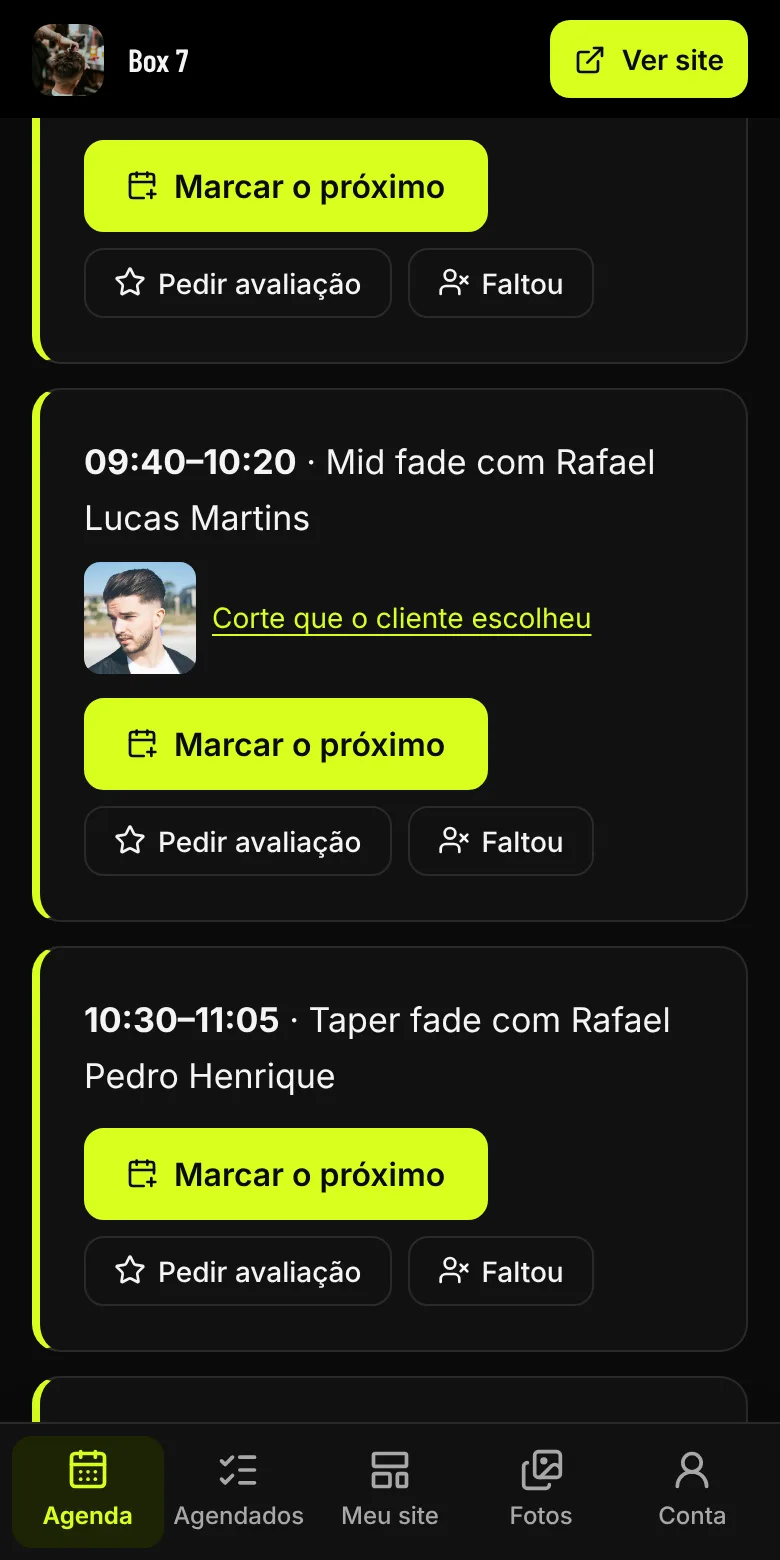
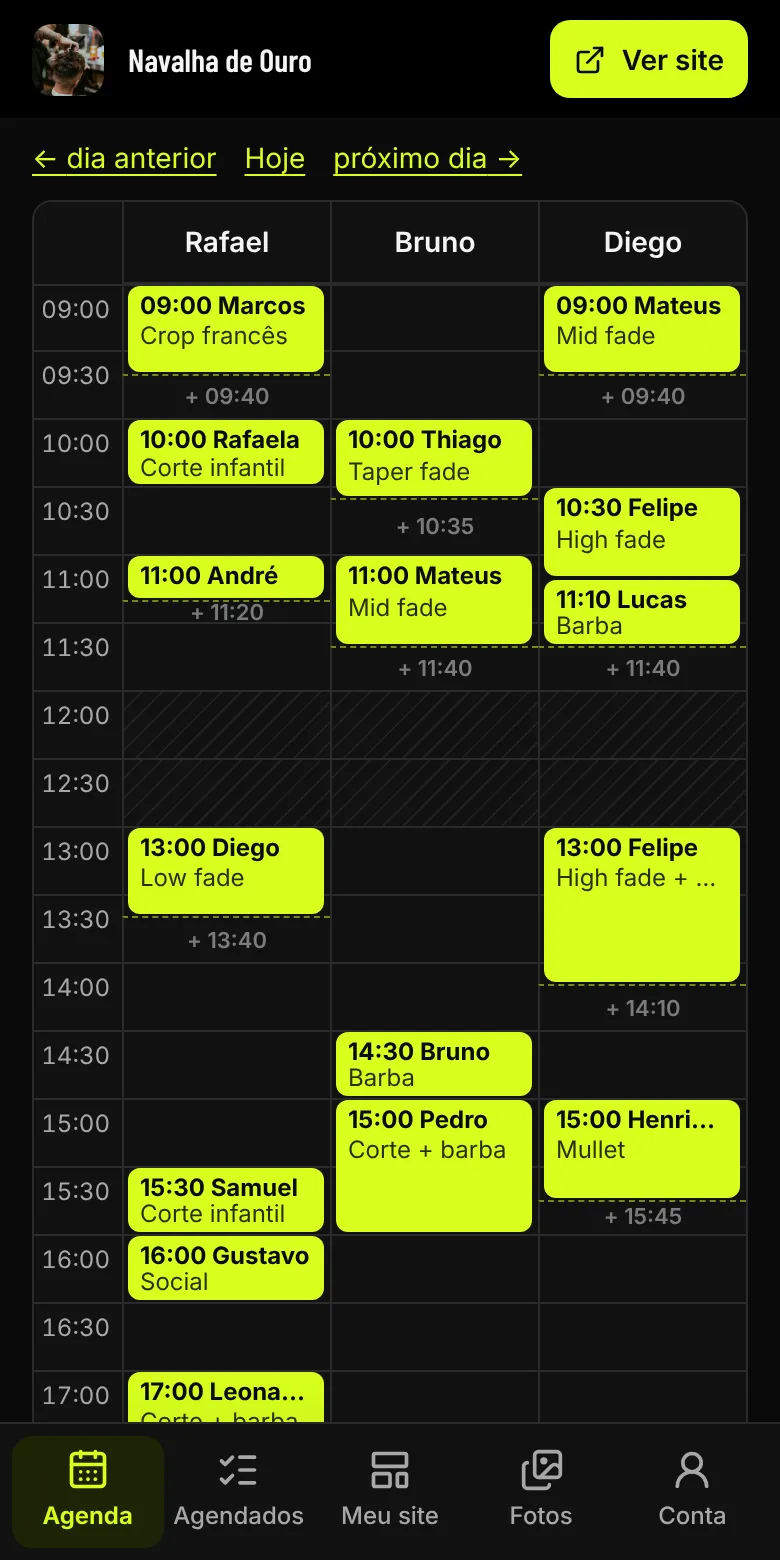
Leads: telas novas do sistema no "Como funciona por dentro"
Refeitas no app de teste (Potência, 3 barbeiros): escolher o barbeiro com
foto, filtros de horário e primeiro livre, agenda do dia por barbeiro,
"Quem vai usar agora?", semana de um barbeiro, agendados e o resto do
painel. Vídeo de venda regravado com as telas novas.

Claude-Session: https://claude.ai/code/session_01MN9zoEGv1FFz94Fua4B64o

diff --git a/apps/site/app/(cursos)/page.tsx b/apps/site/app/(cursos)/page.tsx
@@ -35,14 +35,15 @@ const NO_SITE = [
 
 /** Telas reais do sistema (tiradas de um site de teste em public/funcionalidades/), na ordem do uso. */
 const TELAS = [
-  { arquivo: "agendar-grupos", titulo: "O cliente escolhe por grupo", texto: "Barba, cabelo, sobrancelha, pigmentação, platinado: cada grupo com foto e preço a partir de.", alt: "Tela com os grupos de serviço da barbearia" },
+  { arquivo: "agendar-grupos", titulo: "Escolhe o barbeiro e o serviço", texto: "Com quem ele quer, com foto de cada barbeiro, e os grupos de serviço com o preço a partir de.", alt: "Tela com os grupos de serviço da barbearia" },
   { arquivo: "agendar-cabelo", titulo: "Cada corte com foto e preço", texto: "Ele abre o grupo, vê os cortes da sua barbearia e toca no que quer.", alt: "Tela com os cortes do grupo Cabelo" },
   { arquivo: "agendar-pedido", titulo: "Soma tudo e mostra o total", texto: "Corte, barba e sobrancelha juntos, com o tempo e o valor certos antes de marcar.", alt: "Tela com o resumo do que vai ser feito e o total" },
-  { arquivo: "agendar-horario", titulo: "Só horário livre de verdade", texto: "Ele vê os dias e os horários que sobram e marca na hora, sem te chamar.", alt: "Tela de escolher o dia e o horário" },
+  { arquivo: "agendar-horario", titulo: "Só horário livre de verdade", texto: "Filtra por barbeiro e por manhã, tarde ou noite, e já vê o primeiro horário livre. Marca na hora, sem te chamar.", alt: "Tela de escolher o dia e o horário" },
   { arquivo: "agendado", titulo: "Lembrete no celular dele", texto: "Põe na agenda do celular e, se precisar, troca ou cancela pelo link.", alt: "Tela de horário marcado com o botão de adicionar à agenda" },
-  { arquivo: "painel-semana", titulo: "A semana inteira numa tabela", texto: "Horários de um lado, dias do outro. Cada cliente no lugar e no tamanho certos, e o que já passou fica apagado.", alt: "Agenda da semana em tabela, com os horários marcados de cada dia" },
+  { arquivo: "painel-agenda", titulo: "O dia de cada barbeiro", texto: "Um barbeiro em cada coluna, cada cliente no horário certo. Tocou num horário vazio, já marca quem chegou.", alt: "Agenda do dia com uma coluna por barbeiro" },
+  { arquivo: "painel-acesso", titulo: "Cada barbeiro na agenda dele", texto: "Uma senha só. Na entrada, escolhe quem vai usar: o dono vê tudo, cada barbeiro vê só os clientes dele.", alt: "Tela de escolher entre o dono e cada barbeiro" },
+  { arquivo: "painel-semana", titulo: "A semana inteira numa tabela", texto: "Horários de um lado, dias do outro, um barbeiro por vez. Cada cliente no lugar e no tamanho certos.", alt: "Agenda da semana em tabela, com os horários marcados de cada dia" },
   { arquivo: "painel-agendados", titulo: "Confirma cada cliente no WhatsApp", texto: "A lista de quem vem nos próximos dias. Um toque abre o seu WhatsApp com a mensagem pronta pro cliente.", alt: "Lista de agendados com o botão verde Confirmar" },
-  { arquivo: "painel-agenda", titulo: "Sua agenda do dia", texto: "Quem vem, o serviço e a foto do corte que ele escolheu. O painel fica com as cores do seu estilo.", alt: "Painel com os horários do dia" },
   { arquivo: "painel-calendario", titulo: "No calendário do seu celular", texto: "Os horários aparecem no iPhone ou no Google, com lembrete antes de cada cliente.", alt: "Tela de ligar a agenda no calendário do celular" },
   { arquivo: "painel-fotos", titulo: "Suas fotos, por tipo de corte", texto: "Degradê, navalhado, barba, antes e depois: você troca pelo celular.", alt: "Painel de fotos do site" },
   { arquivo: "painel-servicos", titulo: "Serviços, tempos e preços", texto: "Uma linha por serviço, com o tempo e o preço. Toca, muda e salva: mudou no site na hora.", alt: "Painel com os serviços e preços" },

diff --git a/CLAUDE.md b/CLAUDE.md
@@ -49,7 +49,7 @@ login de aluno. Tudo em TypeScript, monorepo com npm workspaces.
 - Sites de exemplo (`lib/exemplos.ts`): um por estilo, criados sozinhos quando o app sobe sem nenhum (`instrumentation.ts`; uma criação por vez via `globalThis`) ou pelo botão em `/painel/assinaturas` (`criarSitesDeExemplo`: demonstração sem dono nem login, 10 anos no ar, fotos de `data/demo-fotos` processadas uma vez); slugs em `configuracao("sites_exemplo")`; o mesmo botão põe nos exemplos as fotos novas do banco (`configuracao("fotos_exemplo")` guarda as já postas). Banco de fotos `data/demo-fotos` (35: Unsplash + CC0 do StockSnap, categorias `sobrancelha` e `equipe` inclusas; o botão dos exemplos põe os retratos de `equipe` nos profissionais sem foto): só foto que dispensa crédito (CC0/domínio público), via `apps/site/scripts/fotos-demo.mjs buscar|baixar`; aviso próprio no layout de `/b/<slug>` com "Quero um site assim"; os carrosséis de estilos (home e `/barbeiros`) abrem o exemplo no ar quando existe.
 - Divulgação (`/painel/divulgacao`): post pronto de cada matéria e curso pro grupo (copiar ou abrir no WhatsApp), link com `?origem=grupo-<slug>`; contagem de visitas e cadastros por origem (`origens` no banco de leads: só dia/origem/total, nada de IP ou cookie; `ContarOrigem` no layout conta uma vez por aba via sessionStorage → `/api/origem`; `CampoOrigem` leva a origem pro `/app/cadastro`). Outras origens: `cartao`, `convite` (mensagem "Site + grupo" do painel, `mensagemSiteEGrupo`, só depois que o lead responde), `presente`, `demonstracao`, `direto`. Funil de venda (`funil` no banco de leads, por dia, uma vez por aba via `Medir` em `componentes/ContarOrigem.tsx`, toques em `[data-evento]`): abriu → estilos → exemplo → quero → whatsapp → cadastro_inicio → cadastro, com a passagem de um passo pro outro em `/painel/divulgacao`. Link por lead `?l=<codigo>` (`codigoDoLead`, 7 letras, não o nome): as mensagens do painel levam e o cartão do lead mostra os passos (`lead_eventos`, `eventosDoLead`); citado na `/privacidade`.
 - Cursos e Revista abertos, sem cadastro. Lição: `revalidate` 600 e `PropagandaSaas` no fim (nunca em curso CC BY-NC). Endereços do login antigo (`/entrar`, `/e/<token>`, `/minha-area`, `/cadastro`, `/confirmar`, `/esqueci`) redirecionam pra `/` (`next.config.ts`).
-- `apps/site` (cursos) — Página inicial = página de venda, na ordem em que o barbeiro pergunta (`app/(cursos)/page.tsx`, `force-dynamic`, classes `.vendas-*` no `imperial.css`): topo "Seu site de barbearia pronto, com agenda online" (Ver os estilos + Falar no WhatsApp, preço numa linha, cursos como link pequeno) → "O que vem no seu site" (só o que existe: nada de logo) → carrossel dos 6 estilos com print, "Ver exemplo" e "Quero esse" (`/app/cadastro?estilo=`, o cadastro guarda o tema e o bloco "App do barbeiro" usa) → carrossel "Como funciona por dentro" com telas reais do sistema (`TELAS`, `public/funcionalidades/*.webp`, 390×780: agendar em 4 passos, agenda do painel, calendário, fotos, serviços, estilo, WhatsApp; tiradas de um app SaaS de teste com Playwright) → como funciona em 3 passos (escolher, pedir e pagar, a gente monta e manda o link) → preço, incluso e como cancelar → perguntas → 3 cursos e 3 matérias → rodapé com WhatsApp. Título e descrição de venda e `public/og-venda.jpg` (prévia do link no WhatsApp; `apps/site/scripts/og-venda.mjs`). Botão fixo de WhatsApp (`componentes/WhatsFixo.tsx`, número de `/api/contato` porque cursos e Revista são gerados no build) com mensagem pela página. Exemplos: faixa fixa "Modelo do estilo X" com "Quero esse" e WhatsApp. `PropagandaSaas` muda o título pelo assunto da matéria ou lição; botões de formulário usam `BotaoEnviar` (estado de carregando). `/app` (painel do barbeiro; bloqueado → `/app/assinatura`), `/b/<slug>` (cliente agenda), `/painel/assinaturas` (admin confirma Pix), `/painel/backup`. Cursos (estático; 4 cursos pra barbeiros traduzidos de OpenStax *Introduction to Business*, CC BY 4.0 — os outros livros de negócios da OpenStax são NC-SA e não servem — e 5 próprios: finanças, marketing, atendimento, foto e vídeo, abrir e organizar a barbearia; geradores em `packages/ingestao/manuais/cursos-proprios*.py`), `/barbeiros` (página de venda do SaaS: abertura "Um site com a cara da sua barbearia", 6 estilos com prints em `public/barbeiros/`, seção "Não é um site padrão. É a sua marca." (`SUA_MARCA`: só o que existe no painel — fotos, nome/apresentação/cidade/anos de casa/Instagram/oferta, equipe, serviços e preços, estilo, link próprio; nada de logo, cor livre ou domínio próprio), recursos, preço do `planoDoAmbiente`, cursos, artigos da revista, perguntas e comunidade opt-in), `/painel` (leads, protegido por `PAINEL_SENHA`).
+- `apps/site` (cursos) — Página inicial = página de venda, na ordem em que o barbeiro pergunta (`app/(cursos)/page.tsx`, `force-dynamic`, classes `.vendas-*` no `imperial.css`): topo "Seu site de barbearia pronto, com agenda online" (Ver os estilos + Falar no WhatsApp, preço numa linha, cursos como link pequeno) → "O que vem no seu site" (só o que existe: nada de logo) → carrossel dos 6 estilos com print, "Ver exemplo" e "Quero esse" (`/app/cadastro?estilo=`, o cadastro guarda o tema e o bloco "App do barbeiro" usa) → carrossel "Como funciona por dentro" com telas reais do sistema (`TELAS`, `public/funcionalidades/*.webp`, 390×780: agendar com barbeiro e filtros, agenda do dia por barbeiro, escolher acesso, semana, agendados, calendário, fotos, serviços, estilo, WhatsApp; tiradas de um app SaaS de teste com Playwright) → como funciona em 3 passos (escolher, pedir e pagar, a gente monta e manda o link) → preço, incluso e como cancelar → perguntas → 3 cursos e 3 matérias → rodapé com WhatsApp. Título e descrição de venda e `public/og-venda.jpg` (prévia do link no WhatsApp; `apps/site/scripts/og-venda.mjs`). Botão fixo de WhatsApp (`componentes/WhatsFixo.tsx`, número de `/api/contato` porque cursos e Revista são gerados no build) com mensagem pela página. Exemplos: faixa fixa "Modelo do estilo X" com "Quero esse" e WhatsApp. `PropagandaSaas` muda o título pelo assunto da matéria ou lição; botões de formulário usam `BotaoEnviar` (estado de carregando). `/app` (painel do barbeiro; bloqueado → `/app/assinatura`), `/b/<slug>` (cliente agenda), `/painel/assinaturas` (admin confirma Pix), `/painel/backup`. Cursos (estático; 4 cursos pra barbeiros traduzidos de OpenStax *Introduction to Business*, CC BY 4.0 — os outros livros de negócios da OpenStax são NC-SA e não servem — e 5 próprios: finanças, marketing, atendimento, foto e vídeo, abrir e organizar a barbearia; geradores em `packages/ingestao/manuais/cursos-proprios*.py`), `/barbeiros` (página de venda do SaaS: abertura "Um site com a cara da sua barbearia", 6 estilos com prints em `public/barbeiros/`, seção "Não é um site padrão. É a sua marca." (`SUA_MARCA`: só o que existe no painel — fotos, nome/apresentação/cidade/anos de casa/Instagram/oferta, equipe, serviços e preços, estilo, link próprio; nada de logo, cor livre ou domínio próprio), recursos, preço do `planoDoAmbiente`, cursos, artigos da revista, perguntas e comunidade opt-in), `/painel` (leads, protegido por `PAINEL_SENHA`).
 - No leads, `/app/*` (pedido, pagamento, entrar) usa o mesmo visual e a marca "Site da Barbearia" da venda (`.app-venda` no `imperial.css`, layout de `app/(barbearias)/app`). Topo do leads: `MarcaTopo` ("Site da Barbearia" na venda, "Aprenda Livre" em cursos e Revista). "Quem monta o seu site" na home com `RESPONSAVEL_NOME` (e foto em `public/responsavel.webp`, se existir). Entrega prometida: em até 24 horas depois do Pix. `CampoFoto` tem botão próprio em português ("Escolher foto/arquivo").
 - Funil (revisado com agentes em 30/10/2026): convite curto `FaixaSaas` logo abaixo da foto da matéria; topo da home com "No ar em até 24 horas depois do Pix" e "Ver os 6 estilos"; "Quem monta o seu site" logo depois dos estilos; faixa do exemplo convida a marcar um teste; exemplo/demonstração não mostram "Fechado" (prints de `public/barbeiros/` sem ele); pedido e Pix com o botão fixo de WhatsApp (mensagem pela página), aviso "Nada é cobrado agora", erro do pedido guarda o que foi digitado (cookie `pedido_rascunho`, 10 min) e oferece "Fazer o pedido pelo WhatsApp"; Pix com copia e cola primeiro (QR embaixo no celular, código e identificador recolhidos); "Pedido recebido" diz o que separar e tem "Mandar as fotos pelo WhatsApp".
 - Visual do site de cursos e leads: tema "Cerimônia" dos sites das barbearias (o da demonstração "Salão Imperial": ameixa quase preta com brilho no topo, Jost, títulos finos em caixa alta espaçada só na abertura e nas seções, botões em pílula brancos; tema só escuro), em `app/(cursos)/imperial.css`, escopo `body.site-cursos` (o painel `/app` usa o `globals.css` puro). Sem a entrada desfocada do tema: no site de cursos, movimento só em resposta a um toque.
